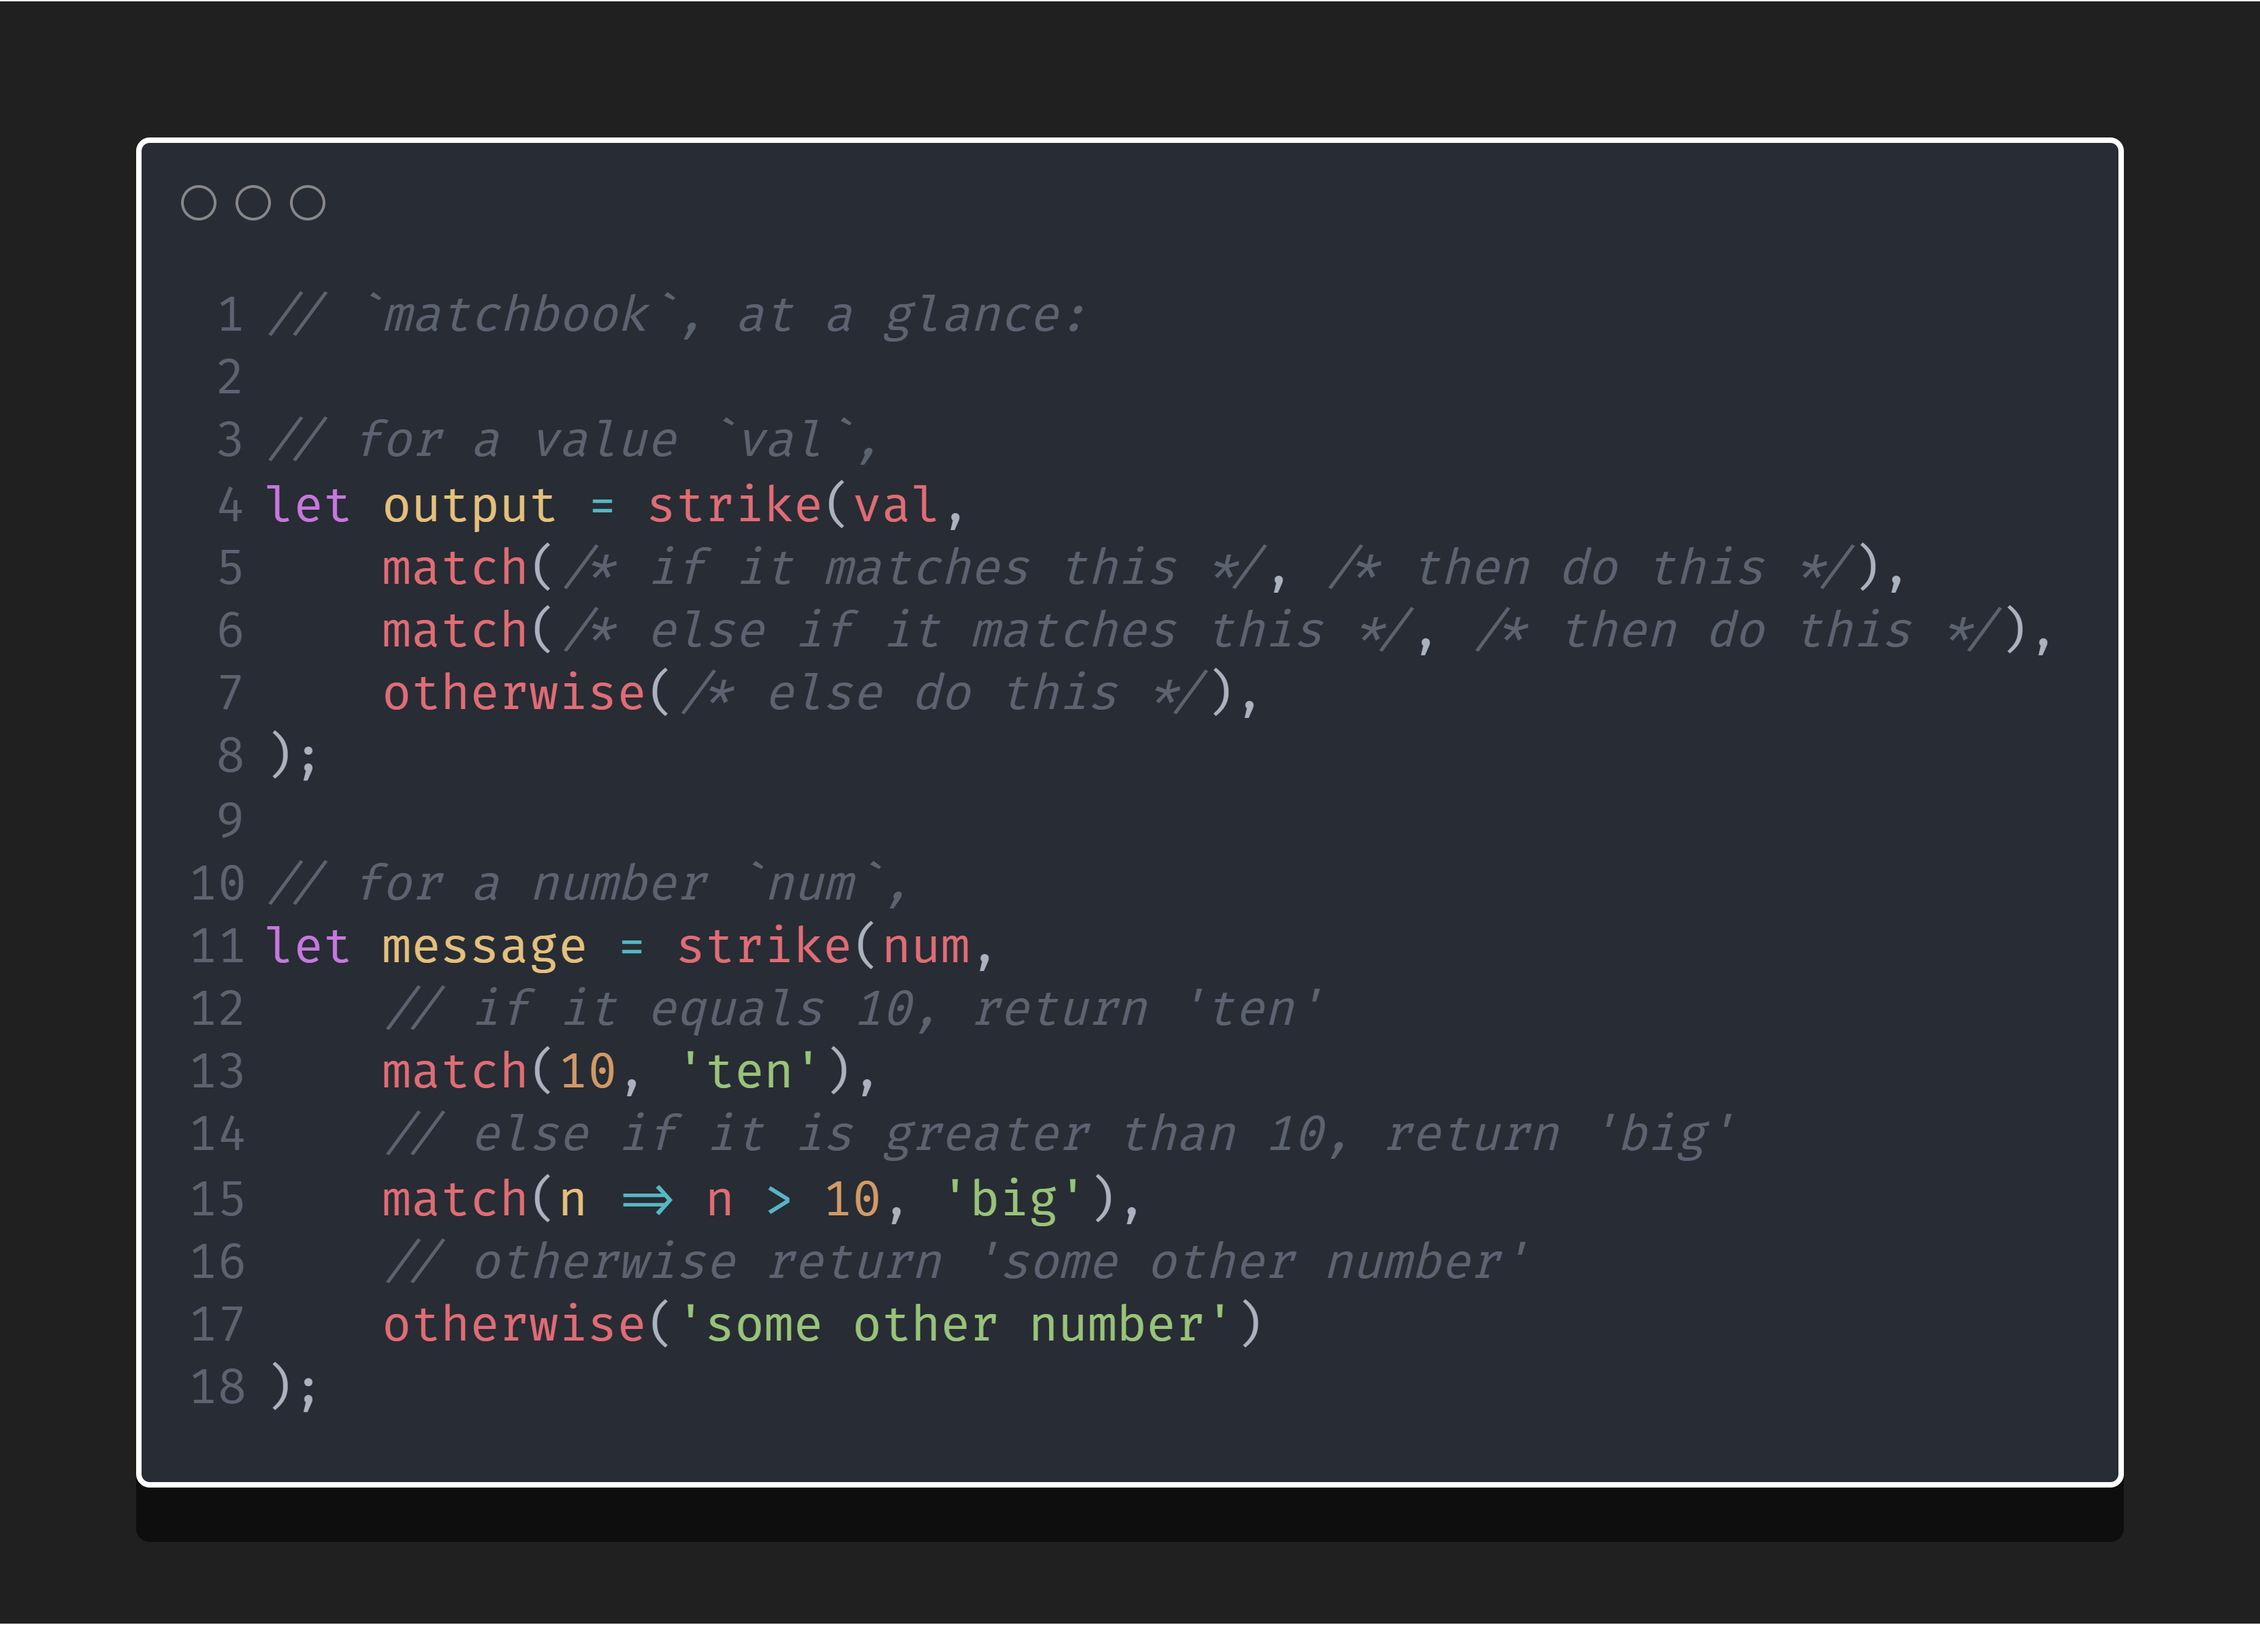
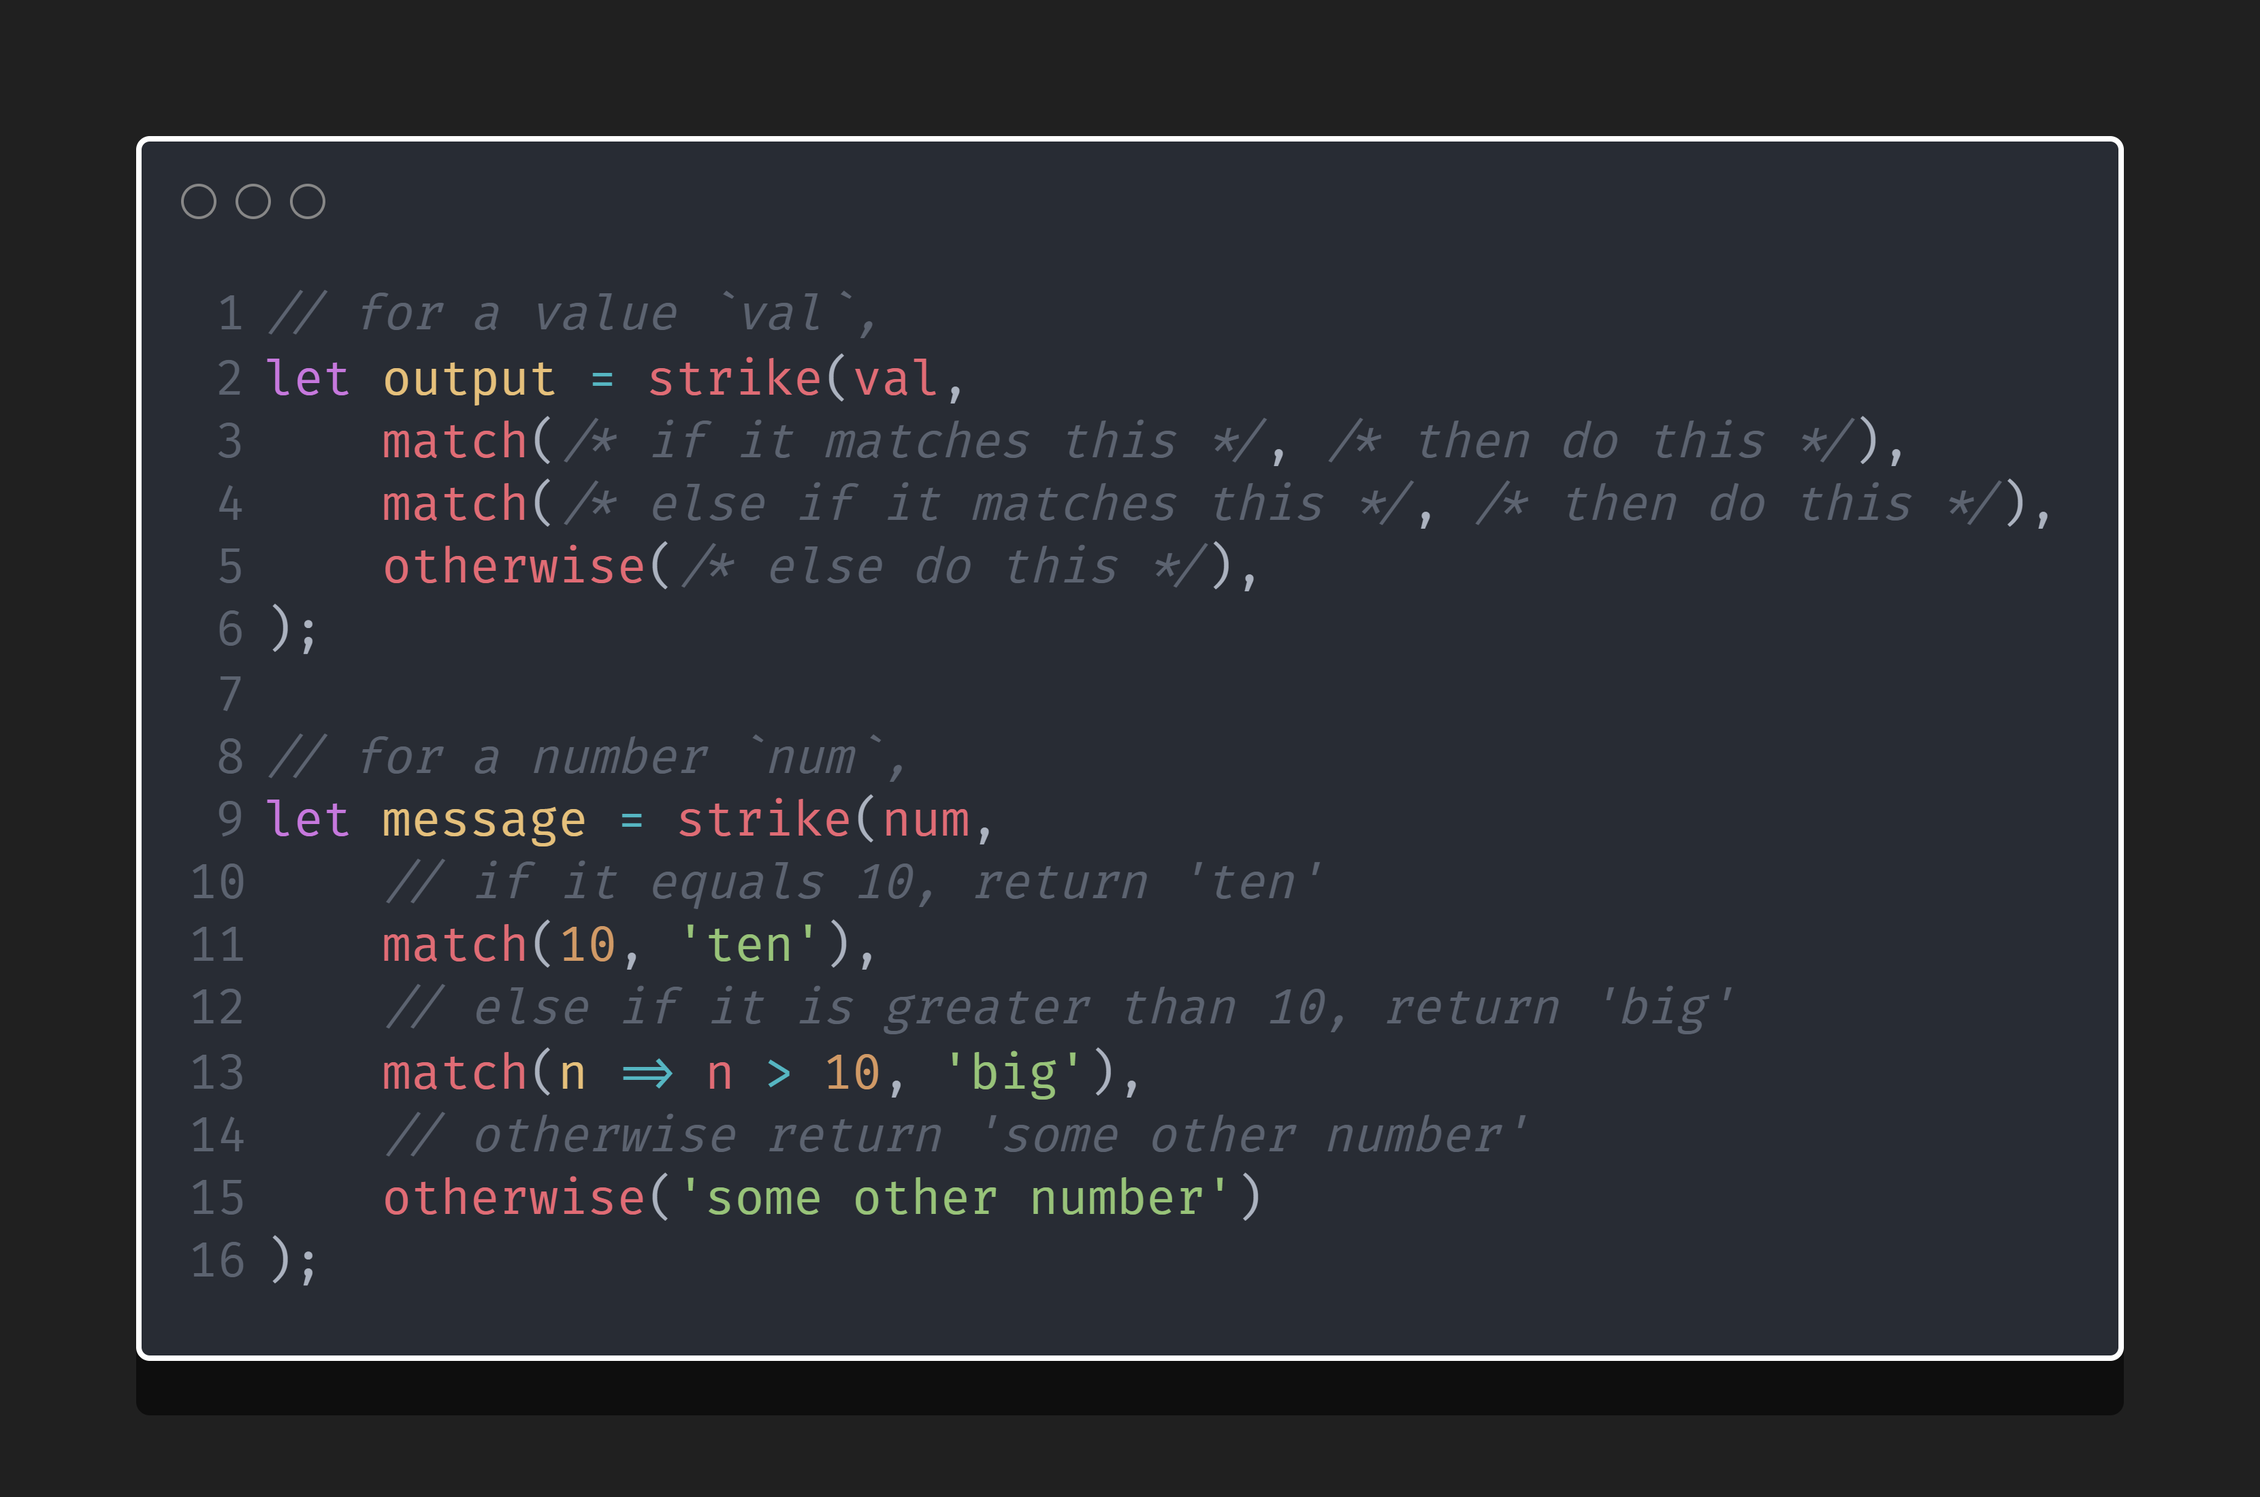
update

diff --git a/assets/readme_samples/src/10-000-feet.snippet.ts b/assets/readme_samples/src/10-000-feet.snippet.ts
@@ -1,5 +1,3 @@
-// `matchbook`, at a glance:
-
 // for a value `val`,
 let output = strike(val,
     match(/* if it matches this */, /* then do this */),

diff --git a/README.md b/README.md
@@ -1,36 +1,55 @@
 <img src="./assets/logo.png" width=500 alt="Project Logo" />
 
-# matchbook
-[![npm version][npm_ver_badge]][npm_link] [![codacy][codacy_badge]][codacy_link] [![source rank][source_rank_badge]][libraries_io] ![license][license_badge]
-## Pattern Matching in TypeScript & JavaScript
-### ❗ Notice ❗
-#### This project is in active development! 🚧🏗👷♂
-Watch the repository for releases to get notified when version 1 is released!
+# `@matchbook/ts`
+## pattern matching in TypeScript & JavaScript
+
+`@matchbook/ts` is a lightweight & simple pattern matching library,
+for TypeScript and JavaScript.
+
+To start using matchbook, install it like any other npm package:
+
+`npm i @matchbook/ts`
 
 ---
 
-#### Matchbook Goals
--   simple & powerful API
-    -   API is just **5 functions**, and some aliases
-    -   Well documented (TODO: typedoc)
-    -   **Powerful type inference** backed by ![top lang][lang_badge]
+![license][license_badge]
 
--   costs almost nothing to use
-    -   **_zero_** runtime dependencies
-    -   [![pkg size][npm_size_badge]][npm_link]
+[![npm version][npm_ver_badge]][npm_link]
+[![pkg size][npm_size_badge]][npm_link]
+[![build][build_badge]][build_link]
+[![source rank][source_rank_badge]][libraries_io]
 
--   reliable
-    -   comprehensive automated tests backed by [![ava][ava_dep_badge]][ava_npm]
-    -   100% code coverage [![codecov][codecov_badge]][codecov_link]
-    -   All pull requests & commits to `master` built via Travis CI [![build][build_badge]][build_link]
-
----
+![top lang][lang_badge]
+[![codacy][codacy_badge]][codacy_link]
+[![codecov][codecov_badge]][codecov_link]
 
 ![it's as easy as a-b-c 1-2-3](assets/readme_samples/static/abc_123.snippet.png)
 
 ---
 
-### Pattern Matching Explained
+## table of contents
+
+-   [library goals](#library-goals)
+-   [pattern matching explained](#pattern-matching-explained)
+-   [matchbook at a glance](#matchbook-at-a-glance)
+-   [matchbook at a slightly longer glance (examples)](#matchbook-at-a-slightly-longer-glance)
+    -   [switching on an `enum`](#switching-on-an-enum)
+    -   [acting on the type of an Event](#acting-on-the-type-of-an-event)
+    -   [matching if a value is an `instanceof` a constructor](#matching-if-a-value-is-an-instanceof-a-constructor)
+
+---
+
+## library goals
+
+-   **simple** - API is just **5** functions, along with some aliases
+-   **powerful** - type inference backed by Typescript
+-   **well documented** - (TODO: typedoc)
+-   **low cost** - no runtime dependencies, small package size
+-   **reliable** - 100% unit test coverage, all pushes verified via Travis CI 
+
+---
+
+## pattern matching explained
 Pattern matching is a  modern language feature
 that acts like a `switch` / `case` statement
 on steroids 💊💪.
@@ -45,20 +64,20 @@ This project takes heavy inspiration from
 
 ---
 
-### `matchbook` at a glance
+## matchbook at a glance
 ![matchbook at a glance](assets/readme_samples/static/10-000-feet.snippet.png)
 
 ---
 
-### Some Motivating Examples
+## matchbook at a slightly longer glance
 
-#### Switching on an `enum`
+### switching on an `enum`
 ![enum example](assets/readme_samples/static/enum.snippet.png)
 
-#### Acting on the type of Event
+### acting on the type of an Event
 ![enum example](assets/readme_samples/static/type_guard.snippet.png)
 
-#### Matching if a value is an `instanceof` a constructor
+### matching if a value is an `instanceof` a constructor
 ![enum example](assets/readme_samples/static/ctor.snippet.png)
 
 [rust_match]: https://doc.rust-lang.org/book/ch06-02-match.html
@@ -73,7 +92,5 @@ This project takes heavy inspiration from
 [license_badge]: https://img.shields.io/github/license/matchbook-ts/matchbook-ts
 [source_rank_badge]: https://img.shields.io/librariesio/sourcerank/npm/@matchbook/ts
 [libraries_io]: https://libraries.io/npm/@matchbook%2Fts
-[ava_dep_badge]: https://img.shields.io/github/package-json/dependency-version/matchbook-ts/matchbook-ts/dev/ava
-[ava_npm]: https://www.npmjs.com/package/ava
 [codacy_badge]: https://api.codacy.com/project/badge/Grade/dd3aa51feb4b4b9988d2a1c9ea543187
 [codacy_link]: https://www.codacy.com/gh/matchbook-ts/matchbook-ts?utm_source=github.com&amp;utm_medium=referral&amp;utm_content=matchbook-ts/matchbook-ts&amp;utm_campaign=Badge_Grade
